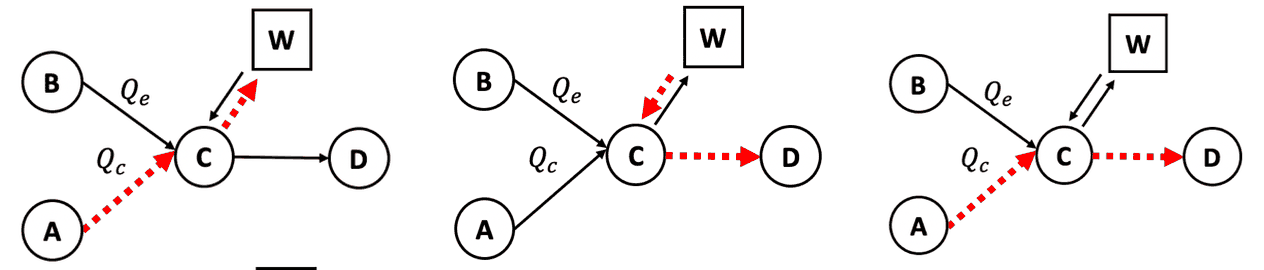
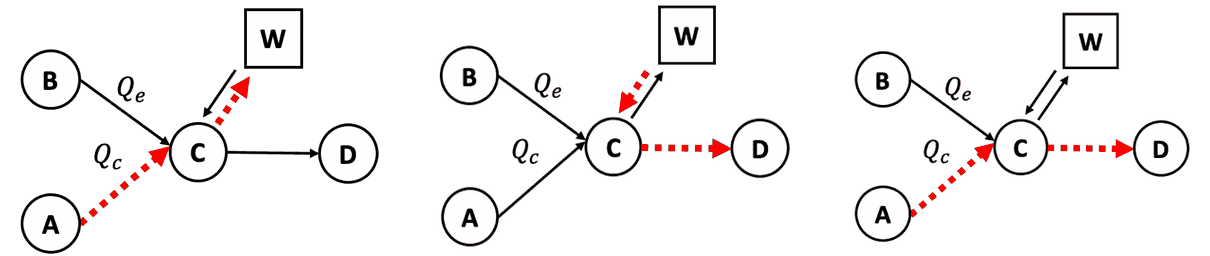
Clean up merging-states figure; remove roundabout paper from the Atlas queue
Claude-Session: https://claude.ai/code/session_01Tj2JJsa8R7azUvvbgSRPJ3

diff --git a/PAPER-QUEUE.md b/PAPER-QUEUE.md
@@ -27,31 +27,29 @@ one at a time with the `atlas-paper-page` skill, each in its own thread. Rank is
   Chen, C.#, Song, Y.#, Hu, X., Wang, D., Liu, J. (2023). A Machine Learning-Based Approach to Assess Impacts of Autonomous Vehicles on Pavement Roughness. Philosophical Transactions of the Royal Society A. Volume 381 Issue 2254. https://doi.org/10.1098/rsta.2022.0176.
 - [ ] **9.** `cheng-drl-trajectory-planning-jits-2023`
   Cheng, Y.#, Hu, X.\*, Chen, K., Yu, X., Luo, Y. (2023). Online Longitudinal Trajectory Planning for Connected and Autonomous Vehicles in Mixed Traffic Flow with Deep Reinforcement Learning Approach. Journal of Intelligent Transportation Systems Technology Planning and Operations. Volume 27, Issue 3, Pages 396-410. https://doi.org/10.1080/15472450.2022.2046472
-- [ ] **10.** `song-roundabout-capacity-trb-2022`
-  Song, Y.#, Hu, X. \*, Lu, J., Zhou, X. (2022). Analytical Approximation and Calibration of Roundabout Capacity: A Merging State Transition-based Modeling Approach. Transportation Research Part B: Methodological. Volume 163, Pages 232-257. https://doi.org/10.1016/j.trb.2022.07.006
-- [ ] **11.** `tang-atma-operation-guidelines-trr-2022`
+- [ ] **10.** `tang-atma-operation-guidelines-trr-2022`
   Tang, Q.#, Hu, X.\*, Ru, Q. (2022). Development of Operation Guidelines for Leader-Follower Autonomous Maintenance Vehicles at Work Zone Locations. Transportation Research Record: Journal of the Transportation Research Board. 2676(3): 696-711. https://doi.org/10.1177/03611981211056644
-- [ ] **12.** `li-ppdp-smart-card-trc-2020`
+- [ ] **11.** `li-ppdp-smart-card-trc-2020`
   Li, Y.#, Yang, D., Hu, X.\* (2020). A Differential Privacy-Based Privacy-Preserving Data Publishing Algorithm for Transit Smart Card Data. Transportation Research Part C: Emerging Technologies. 115, 102634. https://doi.org/10.1016/j.trc.2020.102634
-- [ ] **13.** `cheng-mcts-mixed-traffic-trr-2020`
+- [ ] **12.** `cheng-mcts-mixed-traffic-trr-2020`
   Cheng, Y.#, Tang, Q.#, Hu, X.\*, Qi, H., Yang, H. (2020). A Monte Carlo Tree Search-Based Mixed Traffic Flow Control Algorithm for Arterial Intersection. Transportation Research Record: Journal of the Transportation Research Board. 2674(8), 167--178. https://doi.org/10.1177%2F0361198120919746
-- [ ] **14.** `hu-departure-time-ijst-2020`
+- [ ] **13.** `hu-departure-time-ijst-2020`
   Hu, X.\*, Zhu. X., Chiu. Y.C., Tang, Q.# (2020). Will Information and Incentive Affect Traveler's Day-to-Day Departure Time Decisions? - An Empirical Study of Decision Making Evolution Process. International Journal of Sustainable Transportation. 14(6), 403--412. https://doi.org/10.1080/15568318.2019.1570402
-- [ ] **15.** `hu-capacity-reduction-gps-jits-2019`
+- [ ] **14.** `hu-capacity-reduction-gps-jits-2019`
   Hu, X. \*, Yuan, Y., Zhu, X., Yang, H., Xie, K. (2019). Behavioral Responses to Pre-Planned Road Capacity Reduction Based on Smartphone GPS Trajectory Data - A Functional Data Analysis Approach. Journal of Intelligent Transportation Systems: Technology, Planning, and Operations. 23, 133-143. https://doi.org/10.1080/15472450.2018.1488133
-- [ ] **16.** `hu-ubi-contextual-risk-ietits-2019`
+- [ ] **15.** `hu-ubi-contextual-risk-ietits-2019`
   Hu, X\*., Zhu, X., Ma, Y.L., Chiu, Y. C., Tang, Q. # (2019). Advancing Usage Based Insurance – A Contextual Driving Risk Modeling and Analysis Approach. IET Intelligent Transport Systems. 13, 453 – 460. 2019. https://doi.org/10.1049/iet-its.2018.5194
-- [ ] **17.** `ma-ubi-rate-making-tra-2018`
+- [ ] **16.** `ma-ubi-rate-making-tra-2018`
   Ma, Y.L., Zhu, X., Hu, X.\*, Chiu, Y.C. (2018). The Use of Context-Sensitive Insurance Telematics Data in Auto Insurance Rate Making. Transportation Research Part A: Policy and Practice. Volume 113, Pages 243-258. https://doi.org/10.1016/j.tra.2018.04.013
-- [ ] **18.** `an-network-partitioning-mfd-tits-2018`
+- [ ] **17.** `an-network-partitioning-mfd-tits-2018`
   An, K., Chiu, Y.C., Hu, X., and Chen, X. (2018) "A Network Partitioning Algorithmic Approach for Macroscopic Fundamental Diagram-Based Hierarchical Traffic Network Management." IEEE Transactions on Intelligent Transportation Systems. Volume 19, Issue 4, Pages 1130-1139. https://doi.org/10.1109/TITS.2017.2713808
-- [ ] **19.** `hu-od-calibration-tits-2017`
+- [ ] **18.** `hu-od-calibration-tits-2017`
   Hu, X.\*, Chiu Y.C., Villalobos, J., Nava, E. (2017). "A Sequential Decomposition Framework and Method for Calibrating Dynamic Origin-Destination Demand in a Congested Network." IEEE Transactions on Intelligent Transportation Systems. Volume 18, Issue 10, Pages 2790-2797. https://doi.org/10.1109/TITS.2017.2661751
-- [ ] **20.** `hu-behavior-induced-so-tdm-jits-2017`
+- [ ] **19.** `hu-behavior-induced-so-tdm-jits-2017`
   Hu, X.\*, Chiu, Y.C., Shelton, J. (2017). Development of a Behaviorally Induced System Optimal Travel Demand Management System. Journal of Intelligent Transportation Systems: Technology, Planning, and Operations. Volume 21, Issue 1, pages 12-25. https://doi.org/10.1080/15472450.2016.1171151
-- [ ] **21.** `zhu-bayesian-driving-risk-trc-2017`
+- [ ] **20.** `zhu-bayesian-driving-risk-trc-2017`
   Zhu, X., Yuan, Y., Hu, X., Chiu, Y.C., and Ma, Y.L. (2017). "A Bayesian Network model for contextual versus non-contextual driving behavior assessment." Transportation Research Part C: Emerging Technologies. Volume 81, Pages 172-187. 2017. https://doi.org/10.1016/j.trc.2017.05.015
-- [ ] **22.** `hu-incentive-adm-ijtst-2015`
+- [ ] **21.** `hu-incentive-adm-ijtst-2015`
   Hu, X.\*, Chiu, Y.C., Zhu, L. (2015). Behavior Insights for Incentive-Based Active Demand Management Platform. International Journal of Transportation Science and Technology. Volume 4, Issue 2, Pages 119-133. https://doi.org/10.1260/2046-0430.4.2.119
-- [ ] **23.** `hu-vacant-taxi-routing-trr-2012`
+- [ ] **22.** `hu-vacant-taxi-routing-trr-2012`
   Hu, X., Gao, S., Chiu, Y.C., Lin, D.Y. (2012). Modeling Routing Behavior for Vacant Taxi Cabs in Urban Traffic Networks. Transportation Research Record: Journal of the Transportation Research Board. Volume 2284, Issue 1, Pages 81-88. https://doi.org/10.3141%2F2284-10
